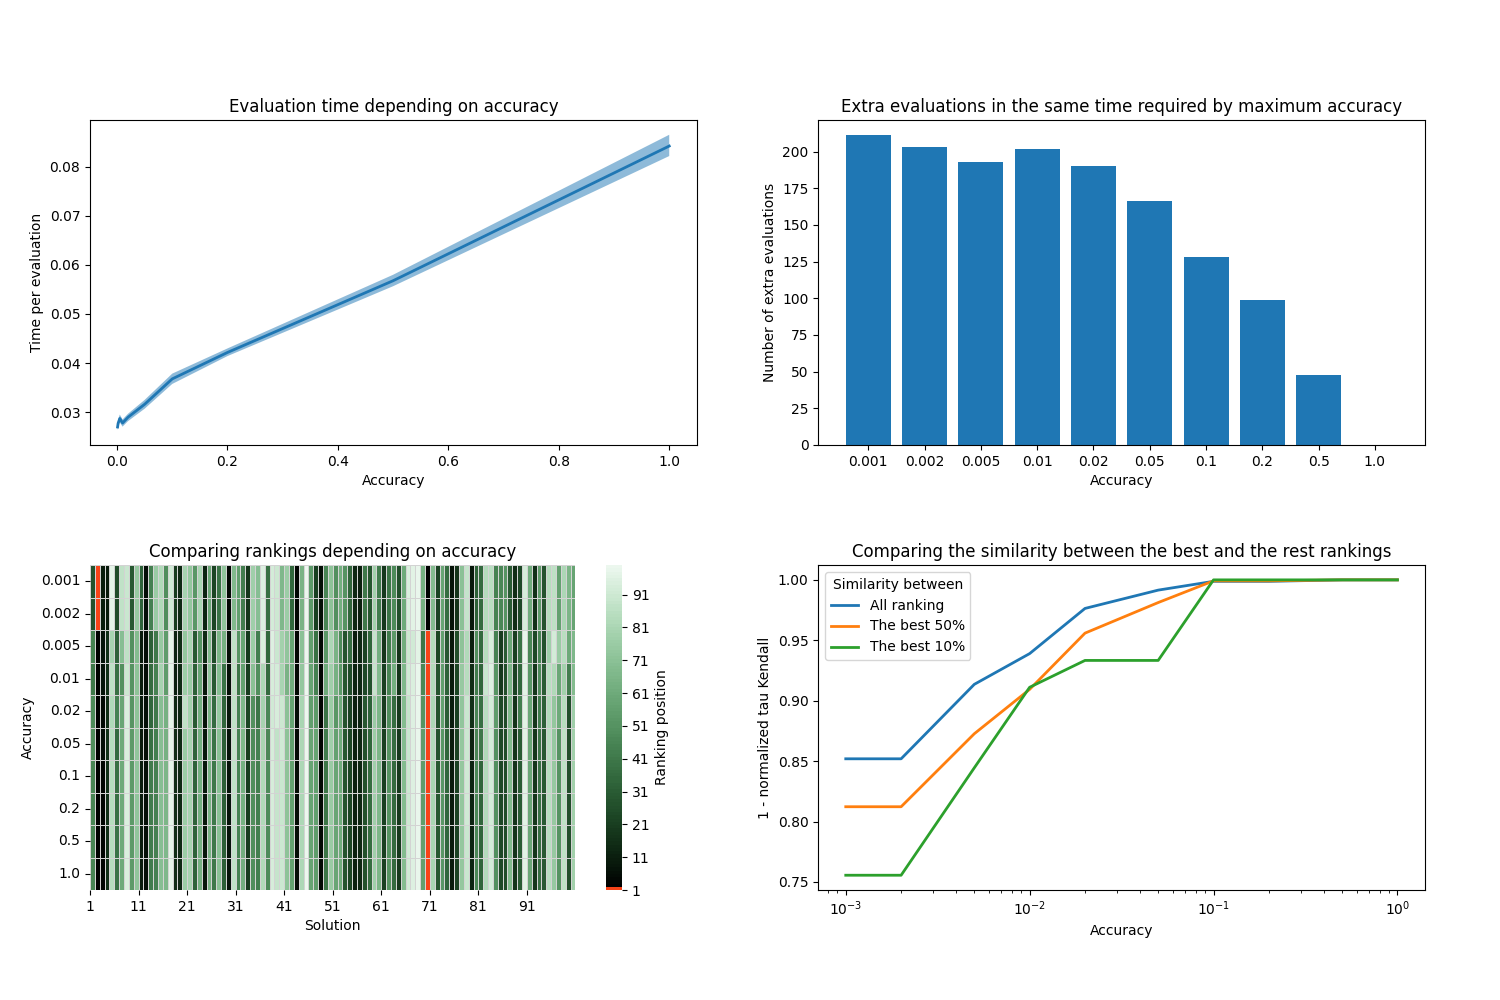
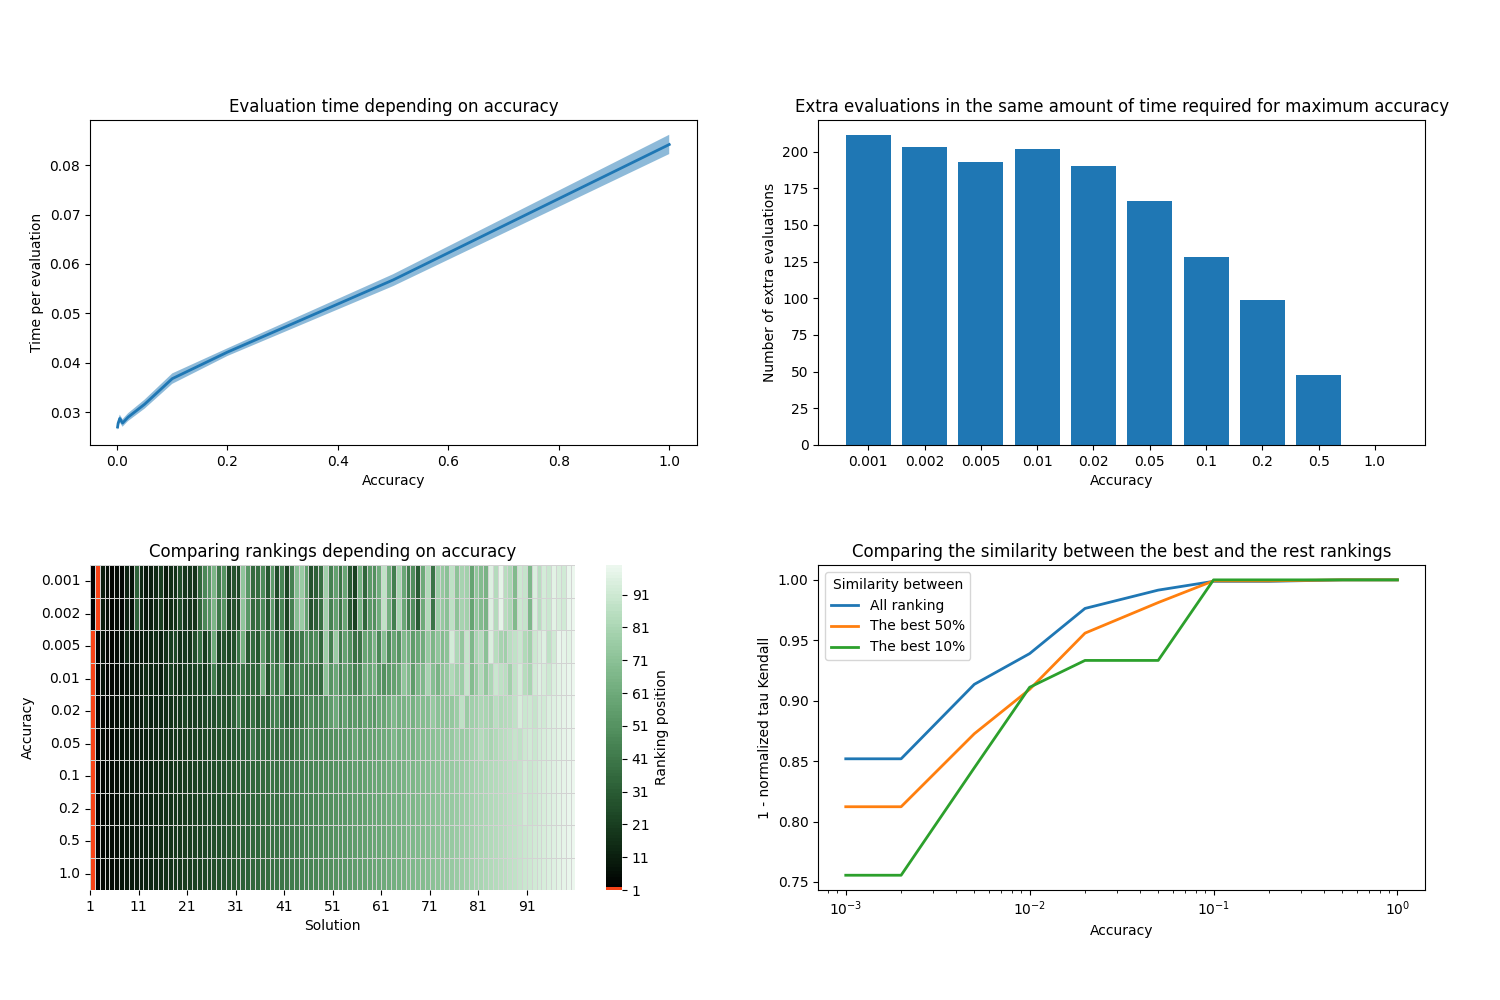
update experiment

diff --git a/experimentScripts_WindFLO/UnderstandingAccuracy_figures.py b/experimentScripts_WindFLO/UnderstandingAccuracy_figures.py
@@ -48,7 +48,14 @@ def from_argsort_to_ranking(list):
         i+=1
     return new_list
 
-# FUNCIÓN 3 (Cálculo de la distancia inversa normalizada de tau kendall entre dos rankings)
+# FUNCIÓN 3 (Ordenar lista según el orden para cada posición definido en argsort)
+def custom_sort(list,argsort):
+    new_list=[]
+    for index in argsort:
+        new_list.append(list[index])
+    return new_list
+
+# FUNCIÓN 4 (Cálculo de la distancia inversa normalizada de tau kendall entre dos rankings)
 def inverse_normalized_tau_kendall(x,y):
     # Número de pares con orden inverso.
     pairs_reverse_order=0
@@ -68,7 +75,7 @@ def inverse_normalized_tau_kendall(x,y):
 
     return 1-tau_kendall
 
-# FUNCIÓN 4 (Eliminar elementos en ciertas posiciones de una lista)
+# FUNCIÓN 5 (Eliminar elementos en ciertas posiciones de una lista)
 def remove_element_in_idx(list_elements,list_idx):
     new_list=[]
     for i in range(len(list_elements)):
@@ -76,7 +83,7 @@ def remove_element_in_idx(list_elements,list_idx):
             new_list.append(list_elements[i])
     return new_list
 
-# FUNCIÓN 5 (Construir las gráficas deseadas a partir de la base de datos)
+# FUNCIÓN 6 (Construir las gráficas deseadas a partir de la base de datos)
 def from_data_to_figures(df):
 
     # Inicializar gráfica.
@@ -119,7 +126,7 @@ def from_data_to_figures(df):
     for i in range(0,len(list_total_times)):
         # Ahorro de tiempo.
         save_time=list_total_times[-1]-list_total_times[i]
-        # Número de evaluaciones extra que se podrian hacer para agotar el tiempo que se necesita por defecto.
+        # Número de evaluaciones extra que se podrían hacer para agotar el tiempo que se necesita por defecto.
         extra_eval=int(save_time/all_means[i])
         list_extra_eval.append(extra_eval)
 
@@ -127,12 +134,23 @@ def from_data_to_figures(df):
     ax.set_xlabel('Accuracy')
     ax.set_ylabel('Number of extra evaluations')
     plt.xticks(rotation = 0)
-    ax.set_title('Extra evaluations in the same time required by maximum accuracy')
+    ax.set_title('Extra evaluations in the same amount of time required for maximum accuracy')
 
 
     #----------------------------------------------------------------------------------------------
     # GRÁFICA 3: ranking de las 100 soluciones con cada accuracy.
     #----------------------------------------------------------------------------------------------
+    def ranking_matrix_sorted_by_max_acc(ranking_matrix):
+        # Argumentos asociados al ranking del accuracy 1 ordenado de menor a mayor.
+        argsort_max_acc=np.argsort(ranking_matrix[-1])
+
+        # Reordenar filas de la matriz.
+        sorted_ranking_list=[]
+        for i in range(len(ranking_list)):
+            sorted_ranking_list.append(custom_sort(ranking_list[i],argsort_max_acc))
+
+        return sorted_ranking_list
+        
     ax=plt.subplot(223)
 
     ranking_list=[]
@@ -142,7 +160,7 @@ def from_data_to_figures(df):
         ranking=from_argsort_to_ranking(list(df_acc['score'].argsort()))
         ranking_list.append(ranking)
     
-    ranking_matrix=np.matrix(ranking_list)
+    ranking_matrix=np.matrix(ranking_matrix_sorted_by_max_acc(ranking_list))
 
     
     color = sns.cubehelix_palette(start=2, rot=0, dark=0, light=.95, reverse=True, as_cmap=True)
@@ -218,11 +236,132 @@ def from_data_to_figures(df):
     plt.show()
     plt.close()
 
+# FUNCIÓN 7 (Gráficas para el paper)
+def from_data_to_figures_paper(df):
+
+    # Inicializar gráfica.
+    fig=plt.figure(figsize=[15,3.5],constrained_layout=True)
+    # plt.subplots_adjust(left=0.06,bottom=0.21,right=0.95,top=0.78,wspace=0.1,hspace=0.69)
+    subfigs = fig.subfigures(1, 4, width_ratios=[2,2,0.1,4], wspace=0)
+
+    #----------------------------------------------------------------------------------------------
+    # GRÁFICA 1: tiempo de ejecución por accuracy y extra de evaluaciones.
+    #----------------------------------------------------------------------------------------------
+    list_acc=list(set(df['accuracy']))
+    list_acc.sort()
+    list_acc_str=[str(acc) for acc in list_acc]
+    list_acc_str.reverse()
+
+    # Tiempos de ejecución por evaluación.
+    all_means=[]
+    all_q05=[]
+    all_q95=[]
+
+    for accuracy in list_acc:
+        mean,q05,q95=bootstrap_mean_and_confidence_interval(list(df[df['accuracy']==accuracy]['time']))
+        all_means.append(mean)
+        all_q05.append(q05)
+        all_q95.append(q95)
+
+    # Evaluaciones extra.
+    list_total_times=list(df.groupby('accuracy')['time'].sum())
+    list_extra_eval=[]
+    for i in range(0,len(list_total_times)):
+        # Ahorro de tiempo.
+        save_time=list_total_times[-1]-list_total_times[i]
+        # Número de evaluaciones extra que se podrían hacer para agotar el tiempo que se necesita por defecto.
+        extra_eval=int(save_time/all_means[i])
+        list_extra_eval.append(extra_eval)
+
+    color = sns.cubehelix_palette(start=2, rot=0, dark=0, light=.95, reverse=True, as_cmap=True)
+    color=cm.get_cmap(color)
+    color=color(np.linspace(0,1,3))
+
+    ax=subfigs[0].subplots()
+    y=[i*(-1) for i in all_means]
+    y.reverse()
+    plt.barh(list_acc_str, y, align='center',color=color[0])
+    plt.title("\n Cost per evaluation")
+    plt.ylabel("Accuracy")
+    plt.xlabel("Steps")
+    ax.set_xticks(np.arange(0,-0.1,-0.02))
+    ax.set_xticklabels(np.arange(0,0.1,0.02),rotation=0)
+
+    ax=subfigs[1].subplots()
+    for i in range(len(list_extra_eval)):
+        if list_extra_eval[i]<0:
+            list_extra_eval[i]=0
+    list_extra_eval.reverse()
+    plt.barh(list_acc_str, list_extra_eval, align='center',color=color[1])
+    plt.yticks([])
+    plt.title("Extra evaluations in the same amount of \n time required for maximum accuracy")
+    # plt.ylabel("Accuracy")
+    plt.xlabel("Evaluations")
+
+
+
+    #----------------------------------------------------------------------------------------------
+    # GRÁFICA 2: perdida de calidad en las evaluaciones considerar accuracys menores y existencia 
+    # de un accuracy menor con el que se obtiene la máxima calidad.
+    #----------------------------------------------------------------------------------------------
+    def ranking_matrix_sorted_by_max_acc(ranking_matrix):
+        # Argumentos asociados al ranking del accuracy 1 ordenado de menor a mayor.
+        argsort_max_acc=np.argsort(ranking_matrix[-1])
+
+        # Reordenar filas de la matriz.
+        sorted_ranking_list=[]
+        for i in range(len(ranking_list)):
+            sorted_ranking_list.append(custom_sort(ranking_list[i],argsort_max_acc))
+
+        return sorted_ranking_list
+
+    def absolute_distance_matrix_between_rankings(ranking_matrix):
+        abs_dist_matrix=[]
+        for i in range(len(ranking_matrix)):
+            abs_dist_matrix.append(np.abs(list(np.array(ranking_matrix[i])-np.array(ranking_matrix[-1]))))
+
+        max_value=max(max(i) for i in abs_dist_matrix)
+        norm_abs_dist_matrix=list(np.array(abs_dist_matrix)/max_value)
+        
+        return norm_abs_dist_matrix
+
+    ax=subfigs[3].subplots()
+
+    ranking_list=[]
+
+    for accuracy in list_acc:
+        df_acc=df[df['accuracy']==accuracy]
+        ranking=from_argsort_to_ranking(list(df_acc['score'].argsort()))
+        ranking_list.append(ranking)
+
+    ranking_matrix=np.matrix(absolute_distance_matrix_between_rankings(ranking_matrix_sorted_by_max_acc(ranking_list)))
+    color = sns.cubehelix_palette(start=2, rot=0, dark=0, light=.95, reverse=False, as_cmap=True)
+
+    ax = sns.heatmap(ranking_matrix, cmap=color,linewidths=.5, linecolor='lightgray')
+
+    colorbar=ax.collections[0].colorbar
+    colorbar.set_label('Normalized distance')
+
+    ax.set_xlabel('Solution (sorted by the ranking of maximum accuracy)')
+    ax.set_xticks(range(0,ranking_matrix.shape[1],10))
+    ax.set_xticklabels(range(1,ranking_matrix.shape[1]+1,10),rotation=0)
+
+    ax.set_ylabel('Accuracy')
+    ax.set_title('Normalized absolute distances between the respective positions \n of the best and the rest rankings')
+    ax.set_yticks(np.arange(0.5,len(list_acc)+0.5,1))
+    ax.set_yticklabels(list_acc,rotation=0)
+
+    # Guardar imagen.
+    plt.savefig('results/figures/WindFLO/UnderstandingAccuracy_paper.png')
+    plt.show()
+    plt.close()
+
 #==================================================================================================
 # PROGRAMA PRINCIPAL
 #==================================================================================================
 # Leer base de datos.
-df=pd.read_csv('results/data/WindFLO/df_UnderstandingAccuracy.csv',index_col=0)
+df=pd.read_csv('results/data/WindFLO/UnderstandingAccuracy/df_UnderstandingAccuracy.csv',index_col=0)
 
 # Construir gráfica.
 from_data_to_figures(df)
+from_data_to_figures_paper(df)

diff --git a/experimentScripts_WindFLO/UnderstandingAccuracy_data.py b/experimentScripts_WindFLO/UnderstandingAccuracy_data.py
@@ -115,6 +115,9 @@ def evaluate_solution_set(solution_set,accuracy):
 # Construir conjunto de 100 posibles soluciones.
 solution_set=build_solution_set(100,0)
 
+#--------------------------------------------------------------------------------------------------
+# Para el análisis de motivación.
+#--------------------------------------------------------------------------------------------------
 # Lista de accuracys a considerar.
 list_acc=[1.0,0.5,0.2,0.1,0.05,0.02,0.01,0.005,0.002,0.001] 
 
@@ -129,18 +132,62 @@ for accuracy in list_acc:
 
     # Guardar base de datos.
     df=pd.DataFrame(df,columns=['accuracy','n_solution','score','time'])
-    df.to_csv('results/data/WindFLO/df_UnderstandingAccuracy'+str(accuracy)+'.csv')
+    df.to_csv('results/data/WindFLO/UnderstandingAccuracy/df_UnderstandingAccuracy'+str(accuracy)+'.csv')
 
 # Eliminar ficheros auxiliares.
 os.remove(os.path.sep.join(sys.path[0].split(os.path.sep)[:-1])+'/terrain.dat')
 
 # Juntar bases de datos.
-df=pd.read_csv('results/data/WindFLO/df_UnderstandingAccuracy'+str(list_acc[0])+'.csv', index_col=0)
-os.remove('results/data/WindFLO/df_UnderstandingAccuracy'+str(list_acc[0])+'.csv')
+df=pd.read_csv('results/data/WindFLO/UnderstandingAccuracy/df_UnderstandingAccuracy'+str(list_acc[0])+'.csv', index_col=0)
+os.remove('results/data/WindFLO/UnderstandingAccuracy/df_UnderstandingAccuracy'+str(list_acc[0])+'.csv')
 for accuracy in list_acc[1:]:
     # Leer, eliminar y unir.
-    df_new=pd.read_csv('results/data/WindFLO/df_UnderstandingAccuracy'+str(accuracy)+'.csv', index_col=0)
-    os.remove('results/data/WindFLO/df_UnderstandingAccuracy'+str(accuracy)+'.csv')
+    df_new=pd.read_csv('results/data/WindFLO/UnderstandingAccuracy/df_UnderstandingAccuracy'+str(accuracy)+'.csv', index_col=0)
+    os.remove('results/data/WindFLO/UnderstandingAccuracy/df_UnderstandingAccuracy'+str(accuracy)+'.csv')
     df=pd.concat([df,df_new],ignore_index=True)
-df.to_csv('results/data/WindFLO/df_UnderstandingAccuracy.csv')
+# df.to_csv('results/data/WindFLO/UnderstandingAccuracy/df_UnderstandingAccuracy.csv')
 
+#--------------------------------------------------------------------------------------------------
+# Para la fijación del umbral del método de bisección.
+#--------------------------------------------------------------------------------------------------
+# Lista con los valores de accuracy que se considerarían por el método de bisección, teniendo en
+# cuenta que el criterio de parada es alcanzar un rango del intervalo de 0.1 y suponiendo que
+# en todas las iteraciones se acota el intervalo por arriba (caso más costoso).
+def upper_middle_point(lower,upper=1.0):
+    list=[] 
+    while abs(lower-upper)>0.1:       
+        middle=(lower+upper)/2
+        list.append(middle)
+        lower=middle
+    return list
+
+default_monteCarloPts=1000
+list_acc=upper_middle_point(1/default_monteCarloPts)+[1.0]
+
+# Guardar datos de scores y tiempos por evaluación usando diferentes valores de accuracy.
+for accuracy in list_acc:
+
+    # Inicializar base de datos donde se guardará la información.
+    df=[]
+
+    # Evaluar conjunto de puntos.
+    evaluate_solution_set(solution_set,accuracy)
+
+    # Guardar base de datos.
+    df=pd.DataFrame(df,columns=['accuracy','n_solution','score','cost_per_eval'])
+    df.to_csv('results/data/WindFLO/UnderstandingAccuracy/df_BisectionThreshold'+str(accuracy)+'.csv')
+
+# Eliminar ficheros auxiliares.
+os.remove(os.path.sep.join(sys.path[0].split(os.path.sep)[:-1])+'/terrain.dat')
+
+# Juntar bases de datos.
+df=pd.read_csv('results/data/WindFLO/UnderstandingAccuracy/df_BisectionThreshold'+str(list_acc[0])+'.csv', index_col=0)
+os.remove('results/data/WindFLO/UnderstandingAccuracy/df_BisectionThreshold'+str(list_acc[0])+'.csv')
+for accuracy in list_acc[1:]:
+    # Leer, eliminar y unir.
+    df_new=pd.read_csv('results/data/WindFLO/UnderstandingAccuracy/df_BisectionThreshold'+str(accuracy)+'.csv', index_col=0)
+    os.remove('results/data/WindFLO/UnderstandingAccuracy/df_BisectionThreshold'+str(accuracy)+'.csv')
+    df=pd.concat([df,df_new],ignore_index=True)
+df=df[['accuracy','cost_per_eval']]
+df=df.groupby('accuracy').mean()
+df.to_csv('results/data/WindFLO/UnderstandingAccuracy/df_BisectionThreshold.csv')
